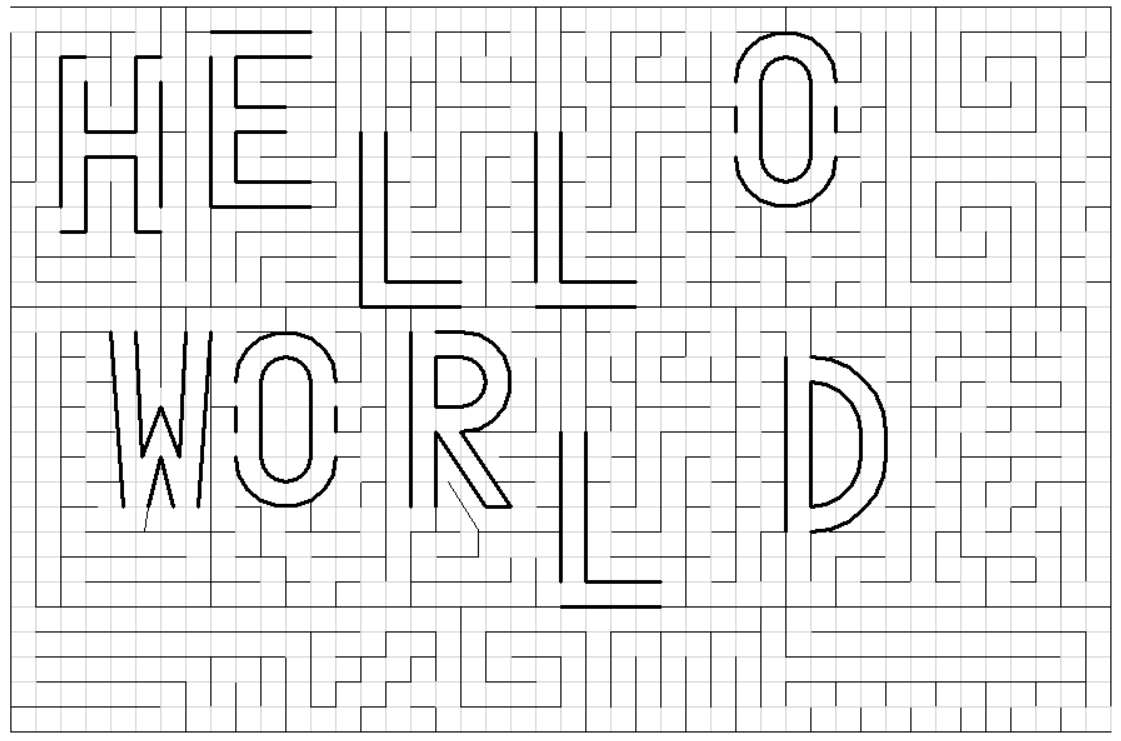
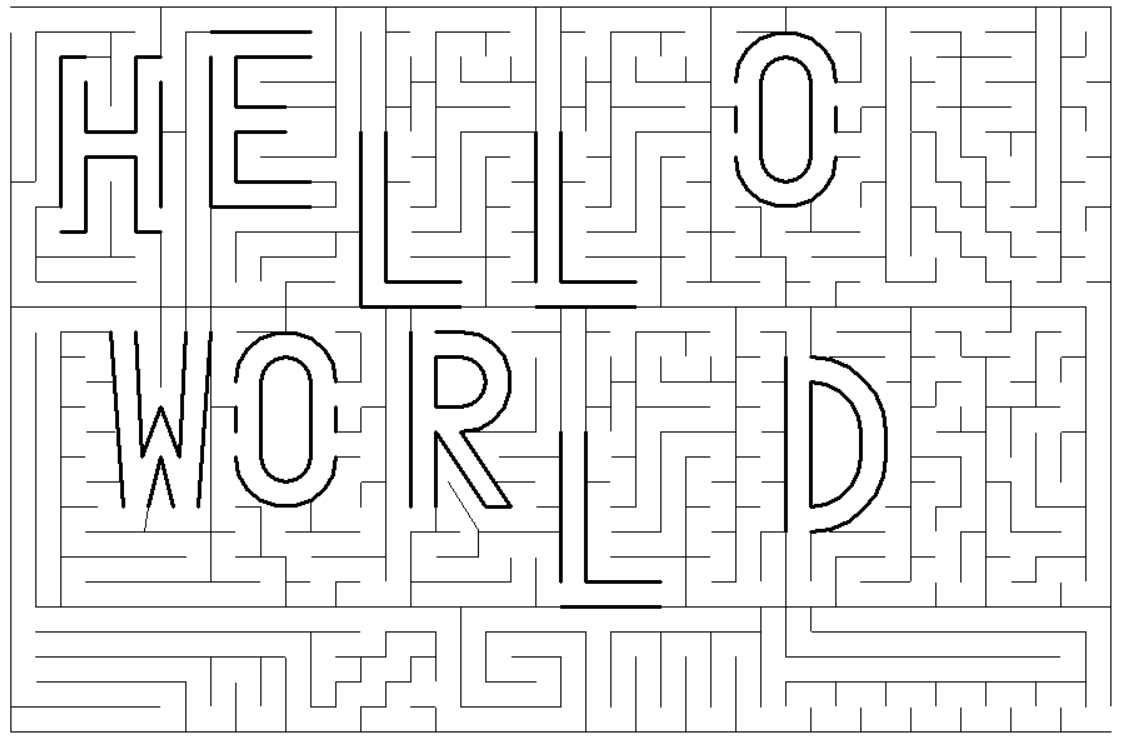
removed grid from example screenshot

diff --git a/main.py b/main.py
@@ -61,8 +61,8 @@ def draw_letter_return_info(info, letter):
             return generator.draw_space_options(info[0],info[1],info[2])
 
 word_input = Words()
-#word_input.prompt_for_words()
-word_input.set_word("yz") #Used for testing
+word_input.prompt_for_words()
+#word_input.set_word("hello world") #Used for testing
 word_input.format_string()
 
 screen = Screen()
@@ -71,7 +71,7 @@ screen.title("Maze Generator")
 screen.tracer(2,0)
 generator = Generator()
 
-generator.draw_grid()
+#generator.draw_grid()
 generator.draw_border()
 info = (-450,290,"top")
 for i in word_input.line_one:
